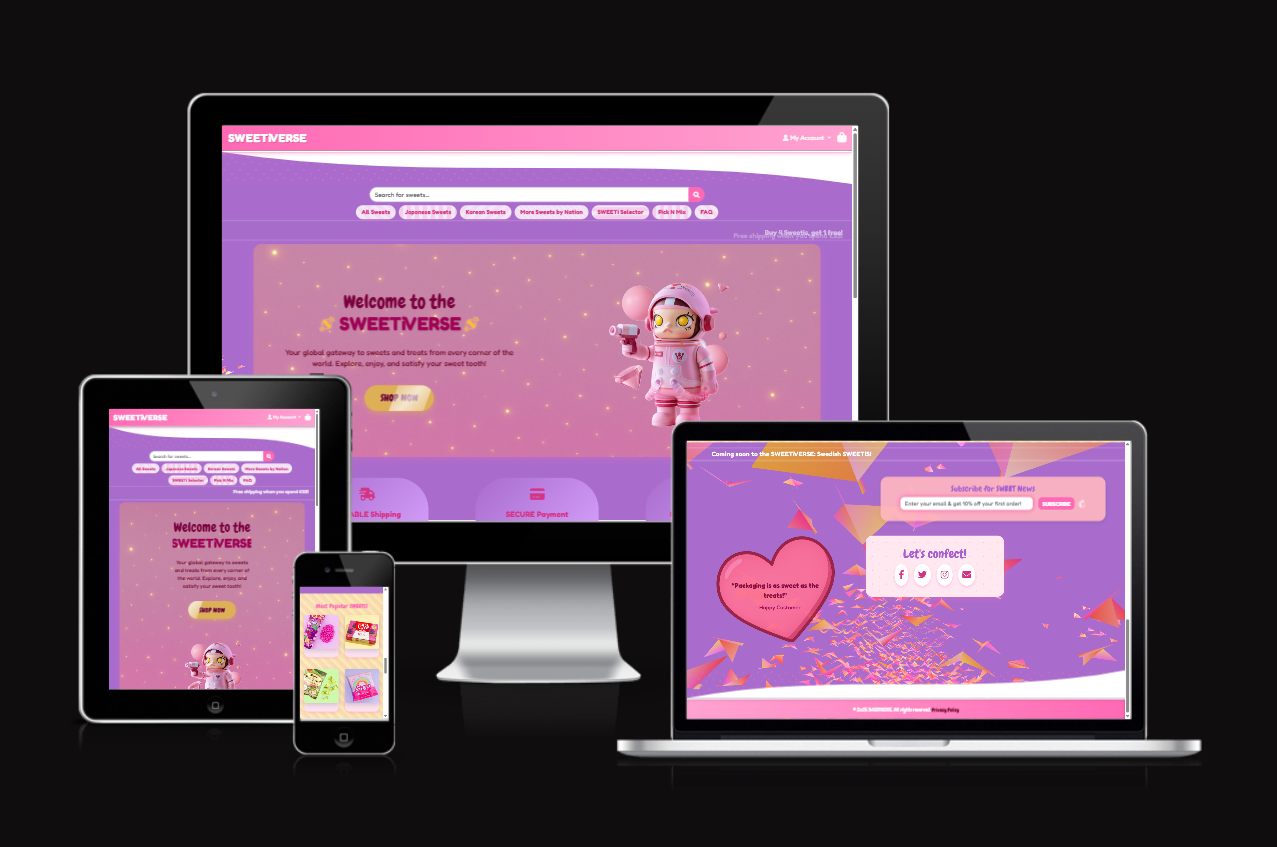
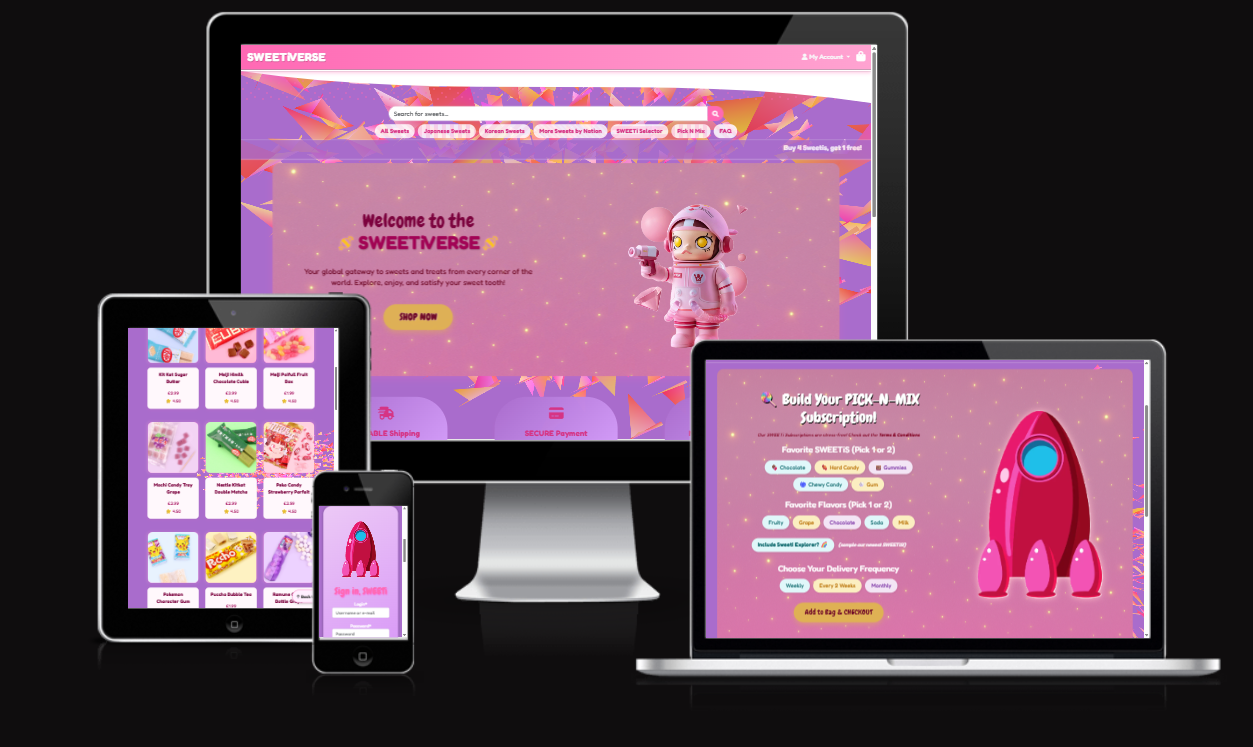
update TESTING.md with responsive screenshots

diff --git a/TESTING.md b/TESTING.md
@@ -39,7 +39,22 @@ Go back to [README.md](/README.md)
 
 ## Responsiveness
 ...
-![responsiveness](./assets/readme-images/testing/-)
+![responsiveness](./assets/readme-images/pp5resp0.png)
+
+Testing of each page was conducted with AMIRESPONSIVE? I downloaded the Ignore X-Frames Headers Chrome Extension, thanks to this helpful article, which allowed me to bypass issues created by the Django tags: https://techsini.com/unable-to-generate-mockup-of-your-website-here-is-the-quick-fix/
+
+<details>
+<summary>AMIRESPONSIVE Screenshots (click)</summary>
+
+<img src="assets/testing-images/pp5resp1.png" width="550px"/>
+<img src="assets/testing-images/pp5resp2.png" width="550px"/>
+<img src="assets/testing-images/pp5resp3.png" width="550px"/>
+<img src="assets/testing-images/pp5resp4.png" width="550px"/>
+<img src="assets/testing-images/pp5resp5.png" width="550px"/>
+<img src="assets/testing-images/pp5resp6.png" width="550px"/>
+
+</details>
+
 
 ## Browser Compatibility
 

diff --git a/README.md b/README.md
@@ -1,4 +1,4 @@
-# Sweetiverse
+# Welcome to the SWEETiVERSE
 
 ![Sweetiverse website preview](./assets/readme-images/pp5resp0.png)
 
